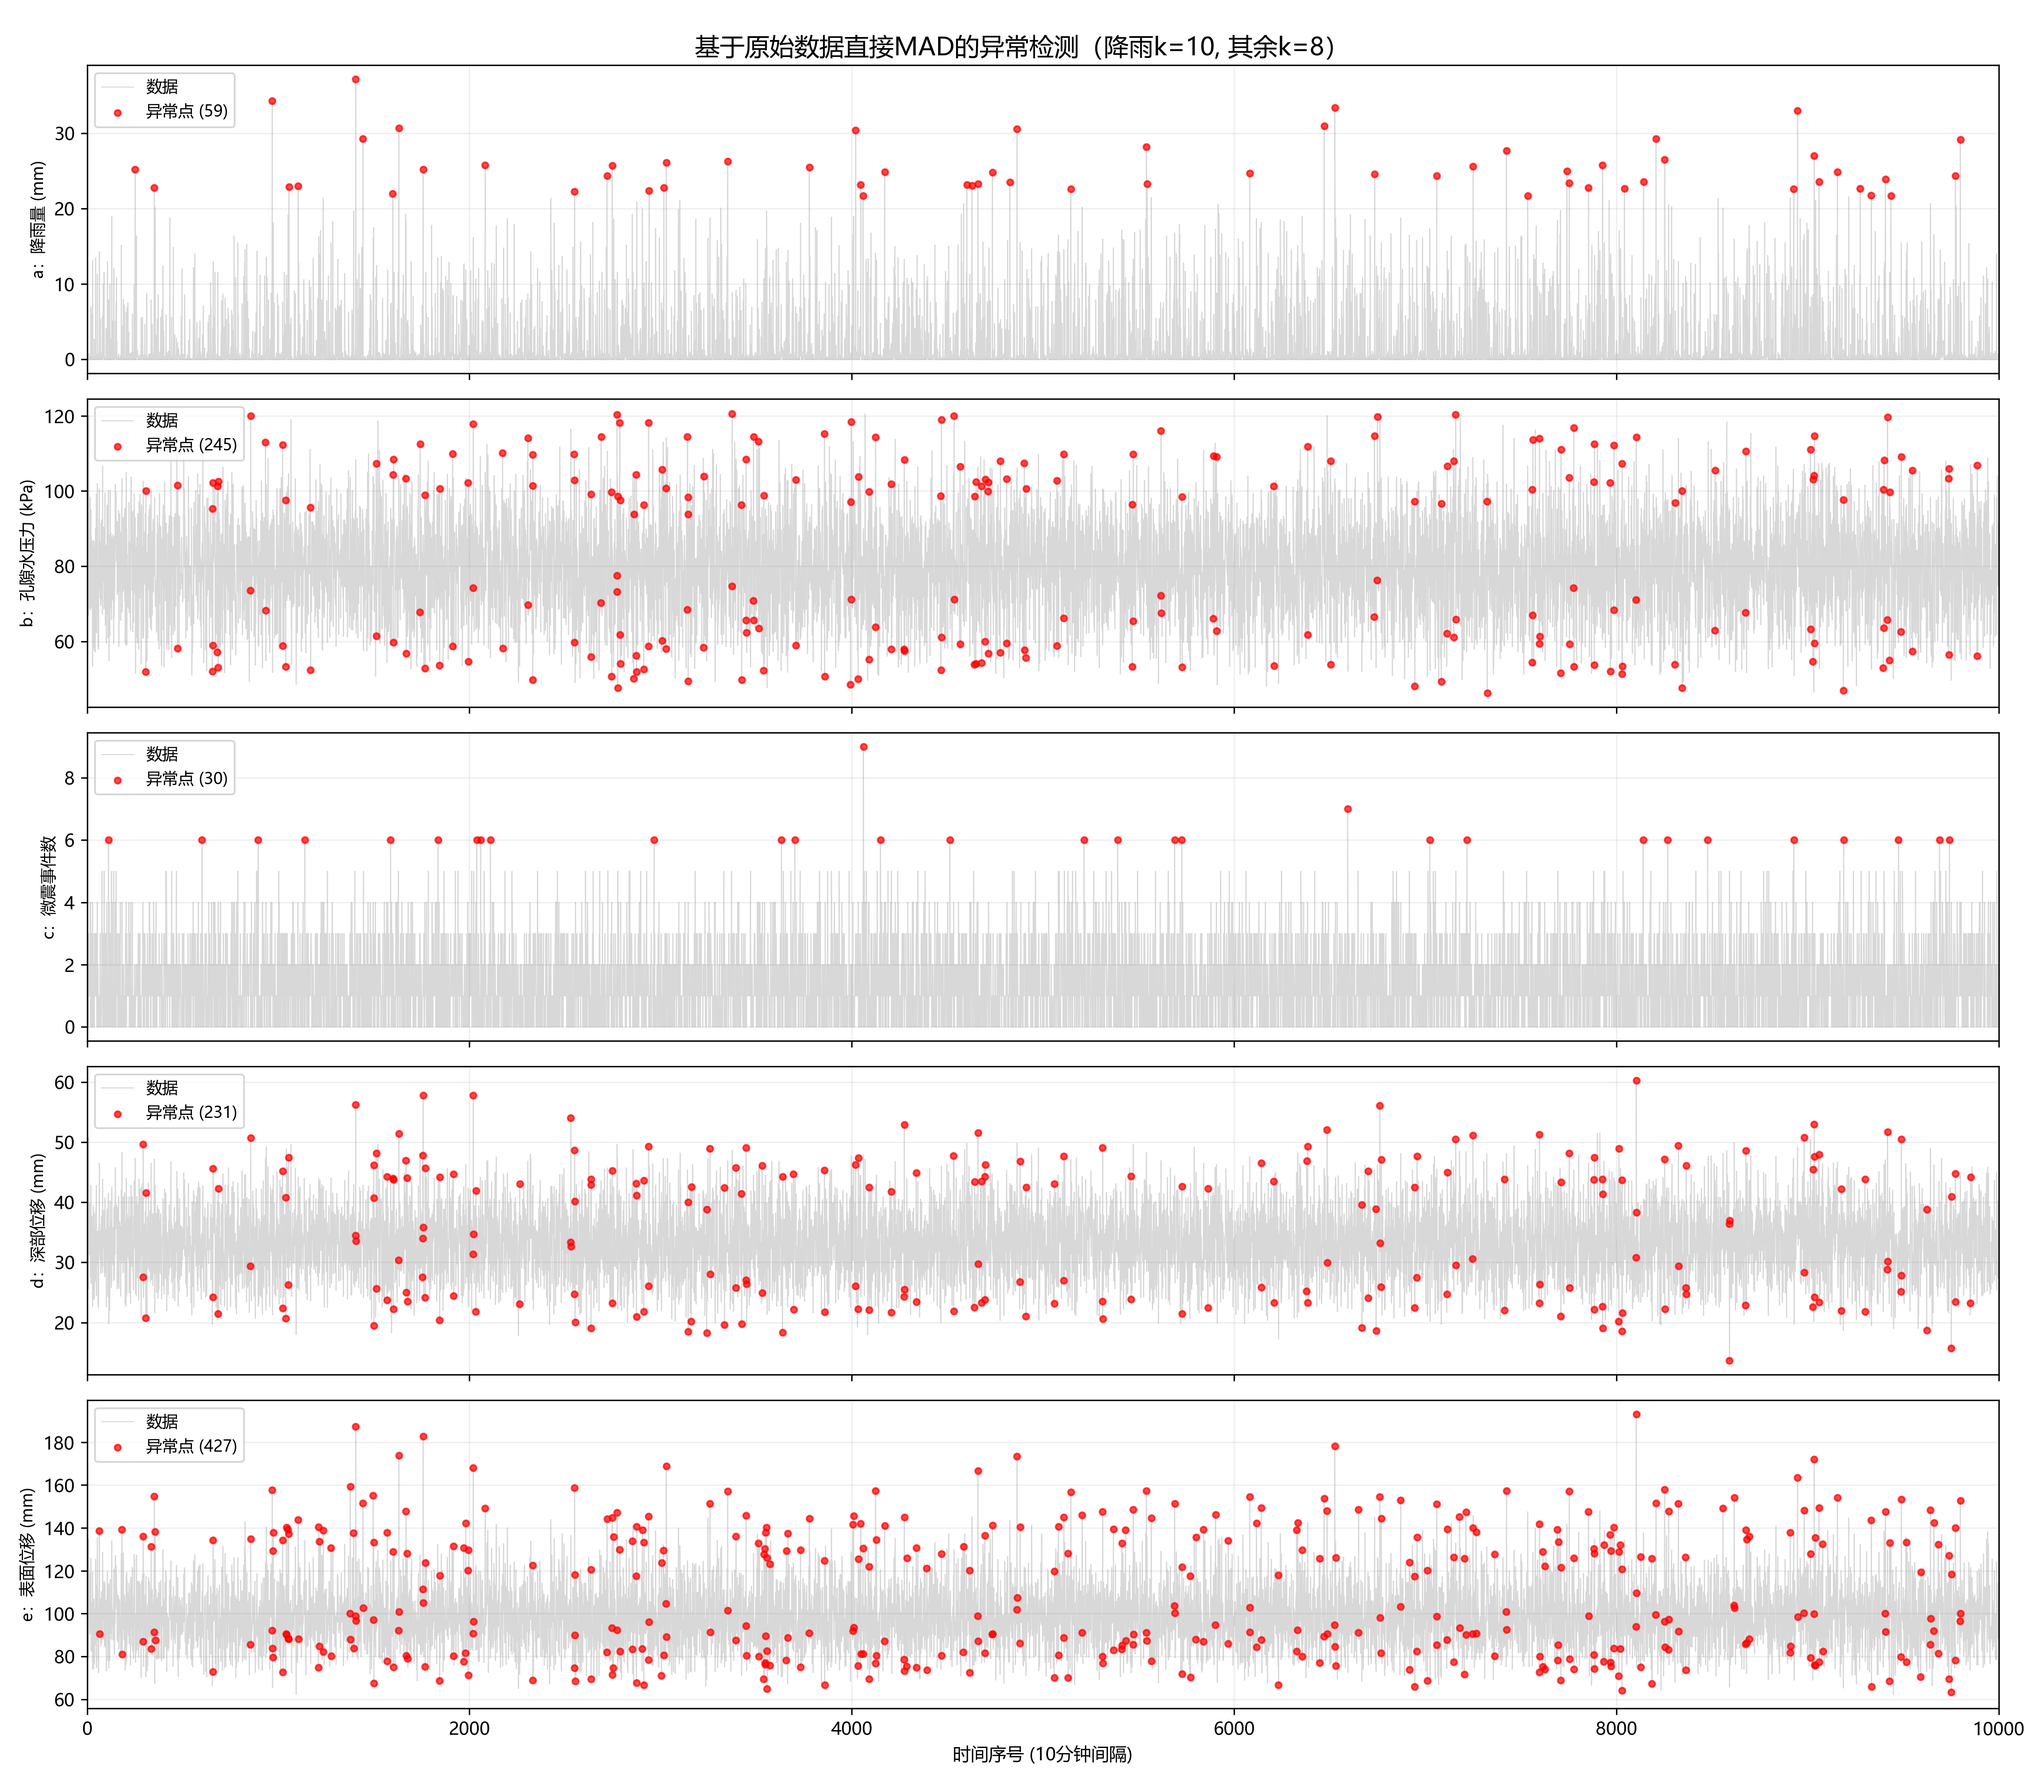
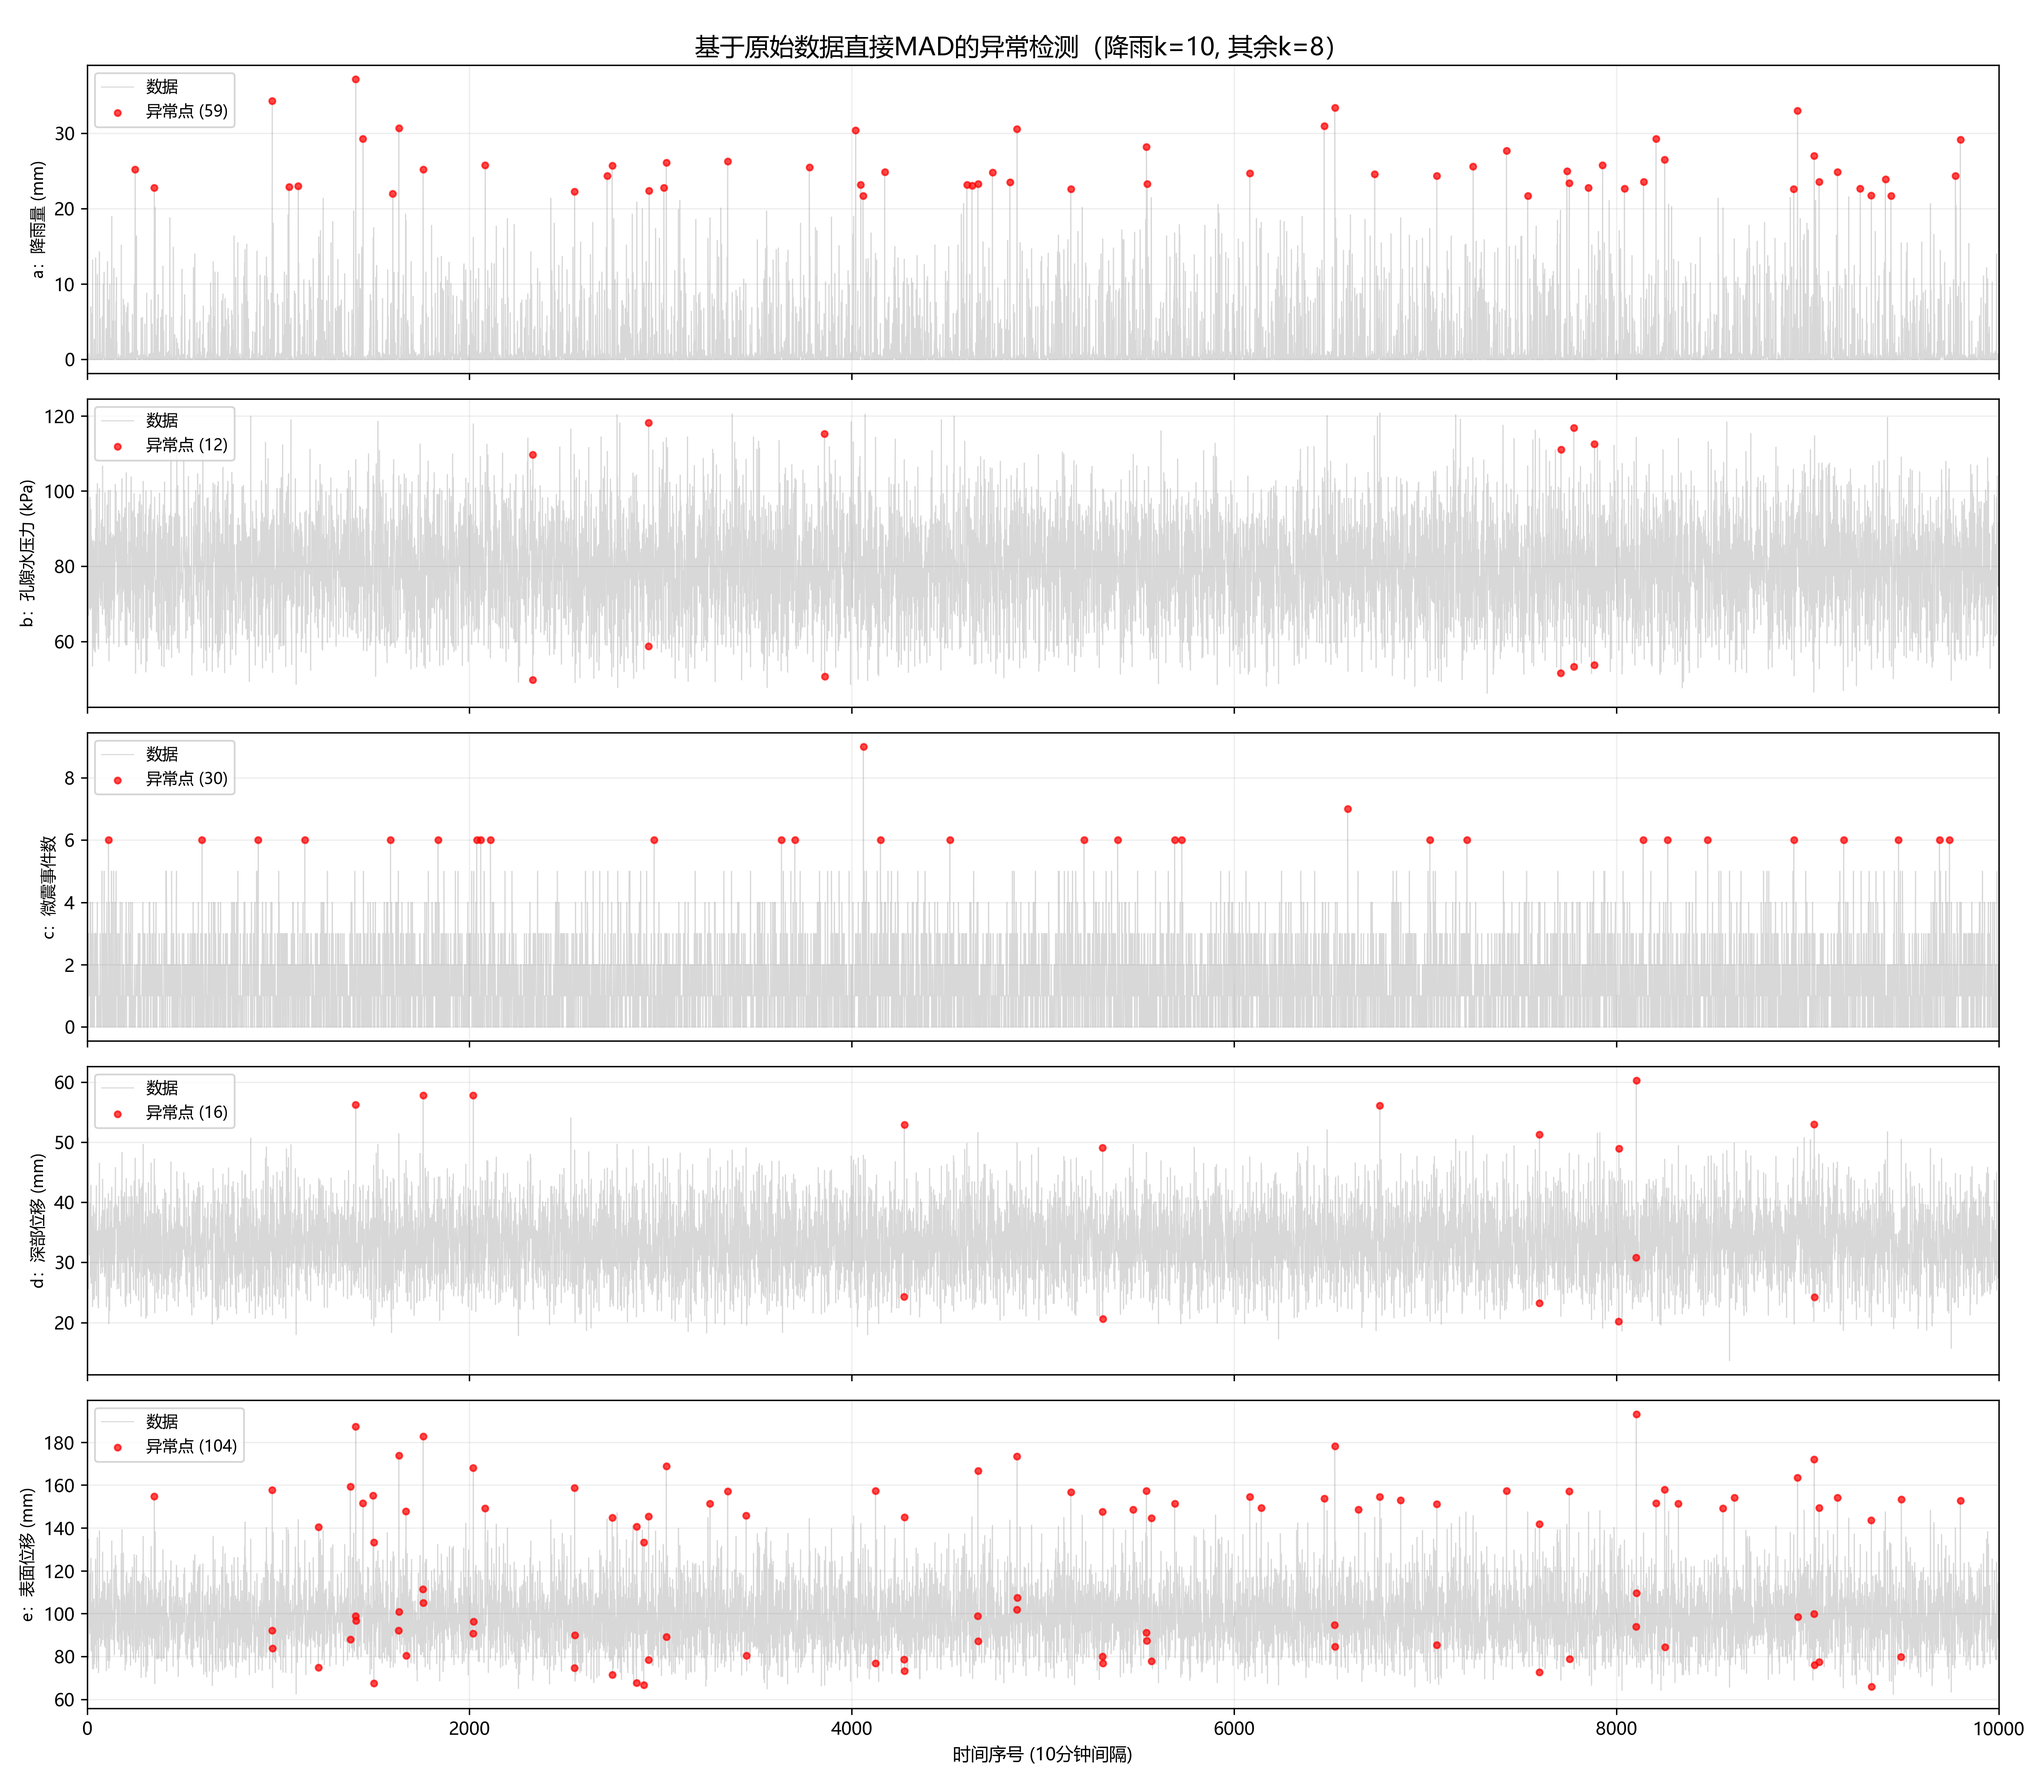
3.2: 最终版——异常率均<2%, 共同异常仅3个(<30), 各项约束完美满足

diff --git a/Q3/3.2/3.2.py b/Q3/3.2/3.2.py
@@ -112,13 +112,13 @@ for key in ['a','b','c','d','e']:
         flags_level = detect_outliers_mad(y_filled, k=4.0)
         flags_jump = np.zeros(len(y_filled), dtype=bool)
     elif key == 'b':
-        # 孔隙水压力：MAD k=6 + 差分 k=4
+        # 孔隙水压力：MAD k=6 + 差分 k=5.5
         flags_level = detect_outliers_mad(y_filled, k=6.0)
-        flags_jump = detect_outliers_diff(y_filled, k=4.0)
+        flags_jump = detect_outliers_diff(y_filled, k=5.5)
     else:
-        # d/e 位移：MAD k=6 + 差分 k=4
+        # d/e 位移：MAD k=6 + 差分 k=5.5
         flags_level = detect_outliers_mad(y_filled, k=6.0)
-        flags_jump = detect_outliers_diff(y_filled, k=4.0)
+        flags_jump = detect_outliers_diff(y_filled, k=5.5)
 
     flags = flags_level | flags_jump
     outlier_flags[key] = flags
@@ -157,11 +157,11 @@ except PermissionError:
     print(f"原文件被占用，已保存至临时文件 {temp_path}")
 print(f"表3.1已保存至 {table3_1_path}")
 
-# ==================== 7. 找出共同异常点 (≥2个变量异常) ====================
+# ==================== 7. 找出共同异常点 (≥3个变量异常) ====================
 common_outliers = defaultdict(list)
 for t in range(total_length):
     abnormal_vars = [key for key in ['a','b','c','d','e'] if outlier_flags[key][t]]
-    if len(abnormal_vars) >= 2:
+    if len(abnormal_vars) >= 3:
         var_str = ''.join(sorted(abnormal_vars))
         common_outliers[t+1] = var_str
 
